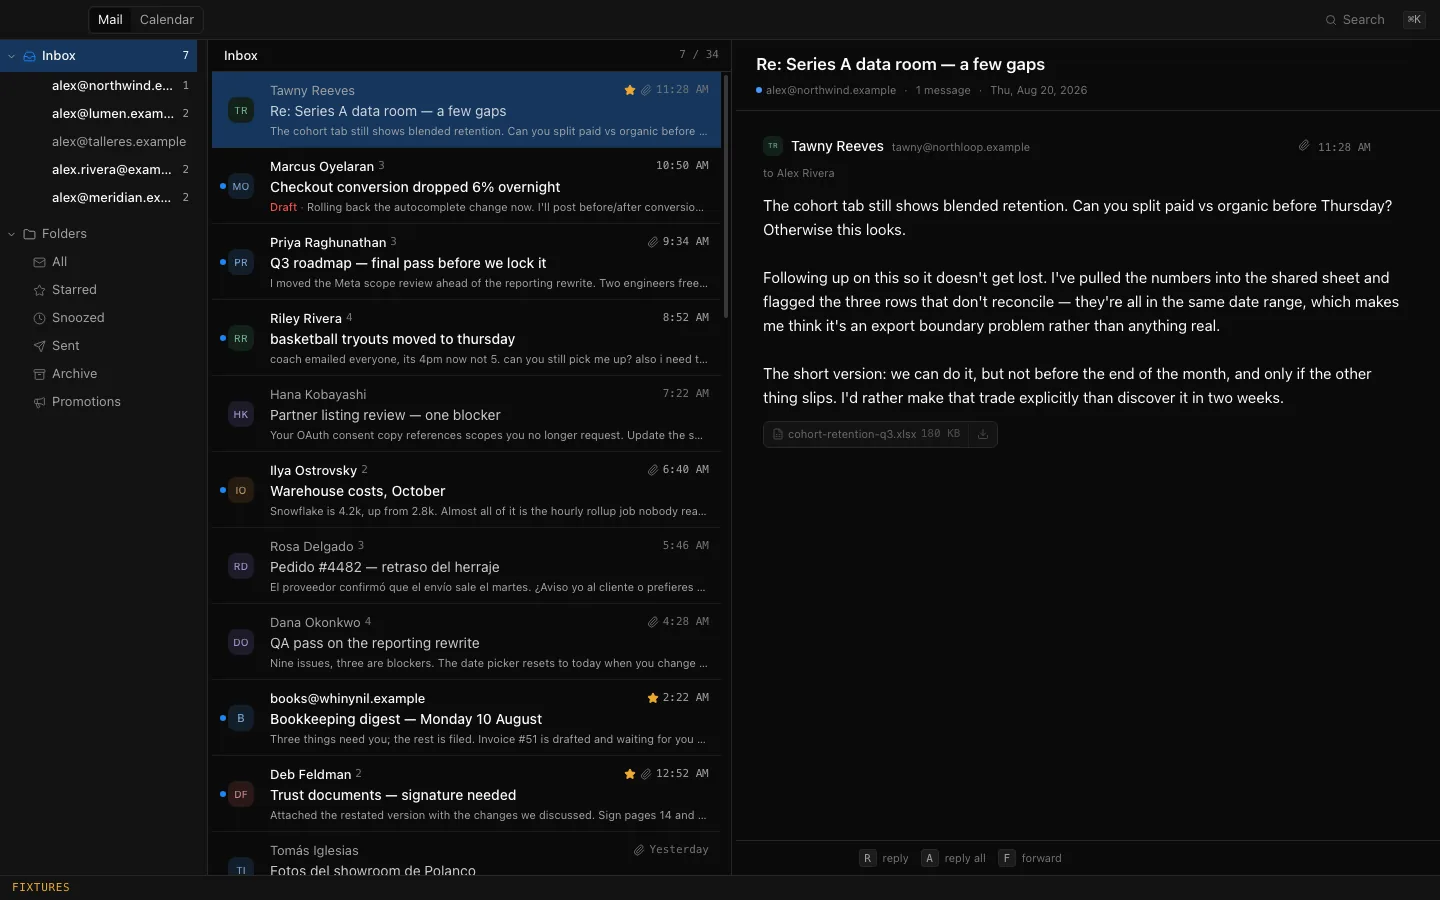
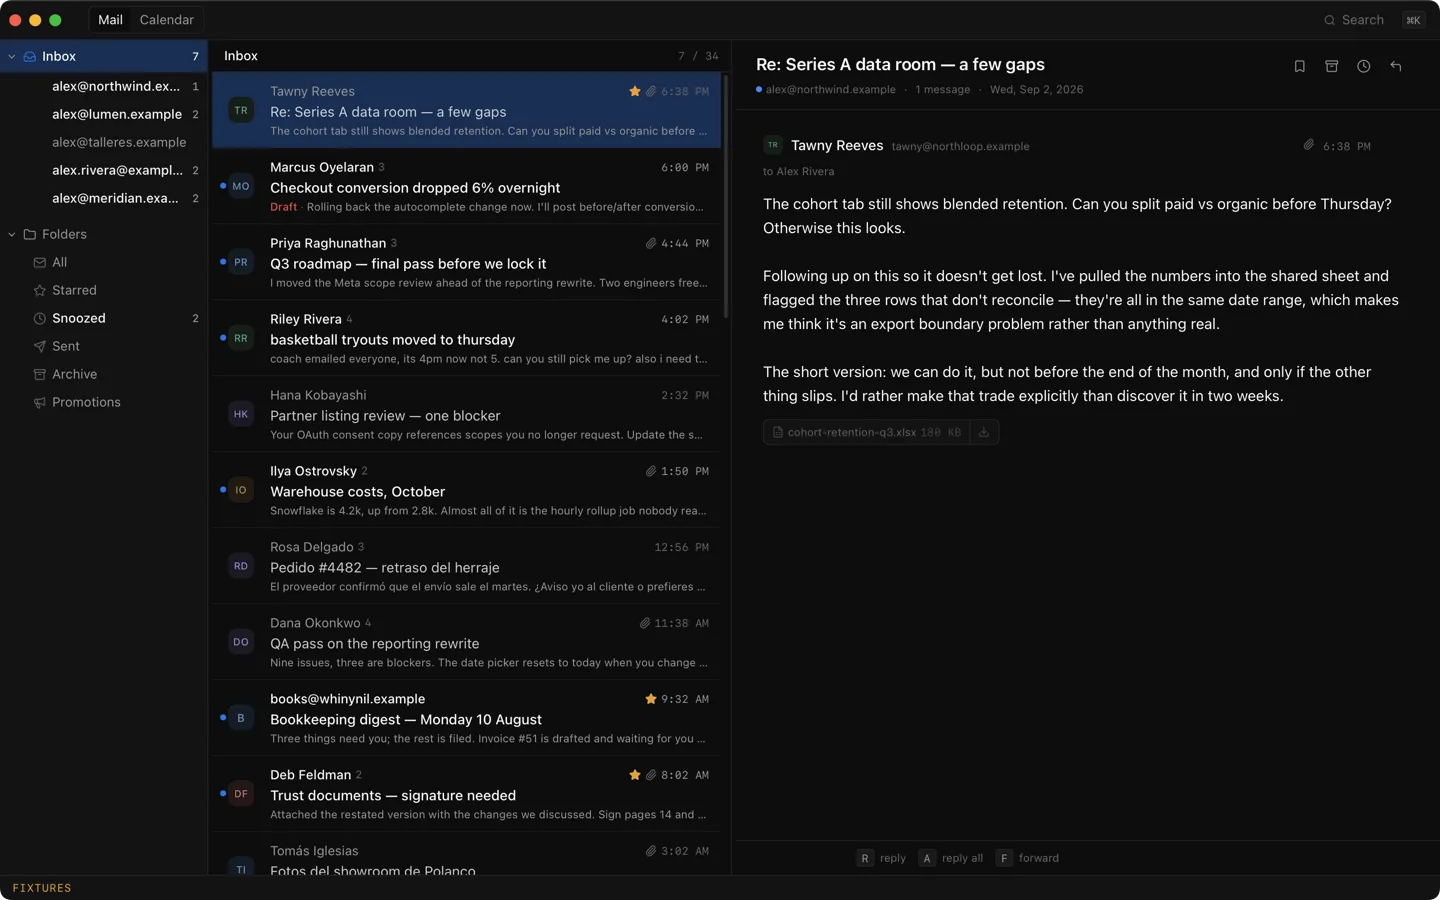
docs: the CLI, the composer, and a scope count that was wrong
The site had not been touched since reply suggestions came out, and two
shipped surfaces were missing from it.

`mach` is one of them. The page described an app you drive with ⌘K and
said nothing about driving the same command layer from a shell, which is
half of why the command layer is typed in the first place. The long
version carries the read/write split, because that is the part somebody
will otherwise assume works the other way: reads open SQLite directly
and answer with the app shut, writes go over the loopback door to the
running process or fail.

The composer is the other. The page had attachments and a From row and
nothing about drafts, the tabs, the ten-second outbox or ⌃S. The README
has listed all of it for weeks.

The install step said "the six scopes". `SCOPES` has seven — `openid`
and six Google ones — which is what the footer, the README and
`skills/mach-setup/SKILL.md` say. Somebody following the page would have
pasted six into the console and had every account fail on the seventh.

The mail screenshots are restaged, light and dark. They predated the
rail counts and the reading pane's own changes, so Snoozed had no number
and the message header had no actions. Fixture data, in the real app, as
before.

Still stale, and not fixed here: the agent and handoff figures are from
10 August and show the title bar and rail that 133346e removed. Staging
them means either letting an agent draft against a store that holds real
[…]

diff --git a/docs/index.html b/docs/index.html
@@ -451,7 +451,7 @@
       }
 
       /* The long version, for the one reader who wants it. Collapsed, because
-         the twelve lines above are the answer for everybody else. */
+         the list above is the answer for everybody else. */
       details.long {
         margin-top: 2.5rem;
         border-top: 1px solid var(--border);
@@ -777,6 +777,11 @@
             <span>Day, week and month. Drag to make an event, or to move one.</span>
           </li>
           <li>
+            <svg viewBox="0 0 24 24" fill="none" stroke="currentColor" stroke-width="1.6" stroke-linecap="round" stroke-linejoin="round" aria-hidden="true"><path d="M4 20h4l10.5-10.5a2.1 2.1 0 0 0-3-3L5 17v3Z"/><path d="M14 6.5 17.5 10"/></svg>
+            <b>Writing</b>
+            <span>Drafts save themselves, several at a time. Ten seconds to change your mind.</span>
+          </li>
+          <li>
             <svg viewBox="0 0 24 24" fill="none" stroke="currentColor" stroke-width="1.6" stroke-linecap="round" stroke-linejoin="round" aria-hidden="true"><path d="M20 11.5 12.5 19a5 5 0 0 1-7-7l7.5-7.5a3.5 3.5 0 0 1 5 5L10.5 17"/></svg>
             <b>Attachments</b>
             <span>Drag a file in to send it. The type comes from the bytes.</span>
@@ -790,6 +795,11 @@
             <svg viewBox="0 0 24 24" fill="none" stroke="currentColor" stroke-width="1.6" stroke-linecap="round" stroke-linejoin="round" aria-hidden="true"><path d="m12 3 1.9 5.1L19 10l-5.1 1.9L12 17l-1.9-5.1L5 10l5.1-1.9L12 3Z"/><path d="M19 16.5 19.7 18.3 21.5 19 19.7 19.7 19 21.5 18.3 19.7 16.5 19 18.3 18.3Z"/></svg>
             <b>The agent</b>
             <span>Runs on your Claude Code CLI. Stops before anything leaves.</span>
+          </li>
+          <li>
+            <svg viewBox="0 0 24 24" fill="none" stroke="currentColor" stroke-width="1.6" stroke-linecap="round" stroke-linejoin="round" aria-hidden="true"><rect x="2.5" y="4" width="19" height="16" rx="2"/><path d="m7 10 3 2.5L7 15"/><path d="M13 15h4"/></svg>
+            <b>From a shell</b>
+            <span><code>mach</code> has every verb ⌘K has. Searching works with the app shut.</span>
           </li>
           <li>
             <svg viewBox="0 0 24 24" fill="none" stroke="currentColor" stroke-width="1.6" stroke-linecap="round" stroke-linejoin="round" aria-hidden="true"><rect x="2.5" y="5" width="19" height="14" rx="2"/><path d="m3 7 9 6 9-6"/><path d="M15 17h5"/></svg>
@@ -861,6 +871,19 @@
             </dd>
           </div>
           <div>
+            <dt>Writing</dt>
+            <dd>
+              Drafts save themselves and go up to Gmail, so one started here can
+              be finished on your phone. Several can be open at once, as tabs
+              along the bottom, and any of them can be popped out into its own
+              window. The body is plain text with a bit of markdown in it, sent
+              as HTML. A send sits in the outbox for ten seconds before it
+              leaves — longer or shorter in preferences — and <kbd>⌃S</kbd>
+              schedules it for three hours' time, tomorrow morning or Monday
+              instead.
+            </dd>
+          </div>
+          <div>
             <dt>Attachments</dt>
             <dd>
               Drag a file onto a composer to send it, or press <kbd>⇧⌘A</kbd>. Incoming
@@ -890,6 +913,20 @@
               you to say yes. Everything else is undoable and shows up in the
               same log as the things you did yourself. <kbd>⌘K</kbd> will also
               hand a thread off to an agent running somewhere else.
+            </dd>
+          </div>
+          <div>
+            <dt>From a shell</dt>
+            <dd>
+              <code>mach</code> is the same list of commands the agent gets,
+              from a terminal. The verbs aren't written down anywhere in the CLI
+              — it reads them off the app at runtime, so it can't fall behind
+              what the app can do. <code>mach search invoice</code> and the
+              other reads open the SQLite file directly and work whether or not
+              Mach is running. Anything that writes goes over a loopback socket
+              to the running app, which is the only process holding the tokens,
+              the outbox and the undo stack; with the app shut, a write fails
+              and says so rather than queueing.
             </dd>
           </div>
           <div>
@@ -1113,7 +1150,7 @@
               >
               to a coding agent that can drive a browser and it'll click through
               the console with you: the project, the two APIs, the consent
-              screen, a Desktop app client, the six scopes, publishing, and
+              screen, a Desktop app client, the seven scopes, publishing, and
               writing <code>.env.local</code>. It gives the keyboard back when
               it hits your password and the User Data Policy. If you'd rather do
               it by hand, the same file reads as a checklist.
@@ -1146,6 +1183,12 @@ bun run tauri dev</code></pre>
               Then <kbd>⌘K</kbd> → <strong>Add account</strong>. If you got the
               credentials wrong it still boots and the window still paints — it
               just tells you it can't add an account.
+            </p>
+            <p style="margin-top: 0.85rem">
+              The command line is a second binary, <code>mach-cli</code>, since
+              <code>mach</code> is the application. <code>scripts/mach</code>
+              builds it if it's missing and runs it; symlink that onto your
+              <code>PATH</code> as <code>mach</code> for the short name.
             </p>
           </li>
         </ol>
